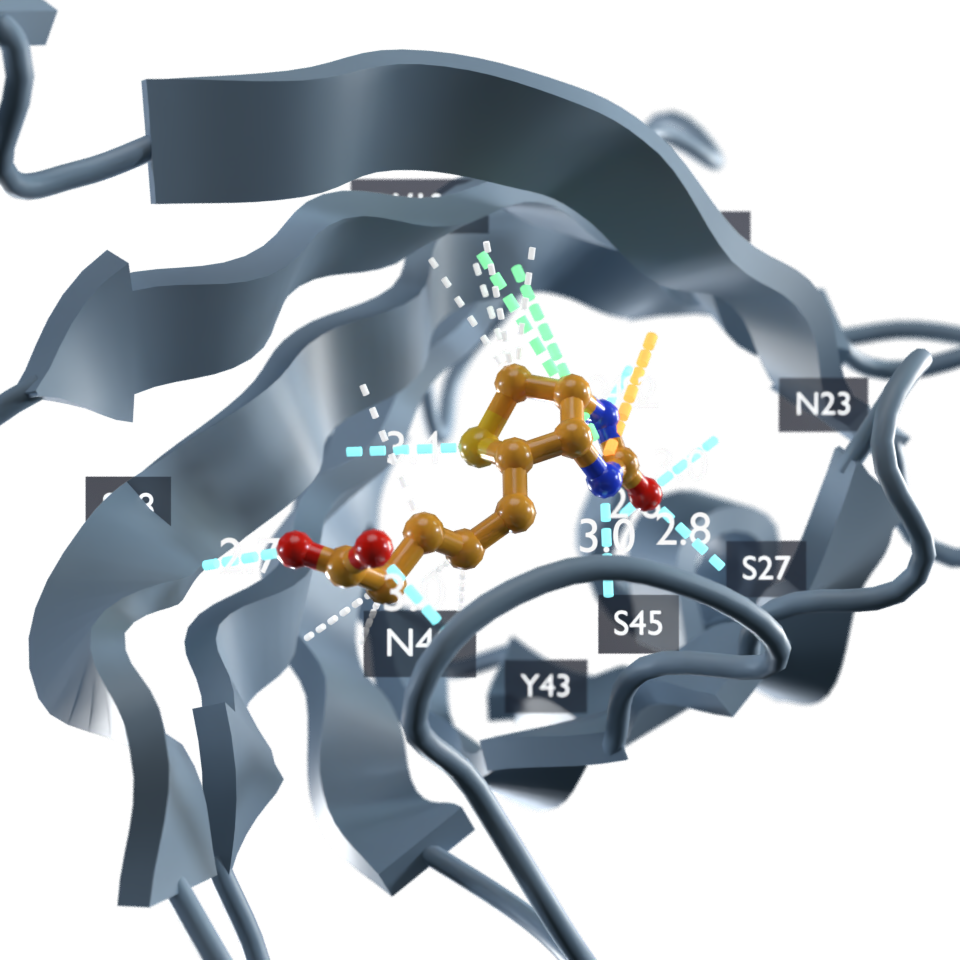
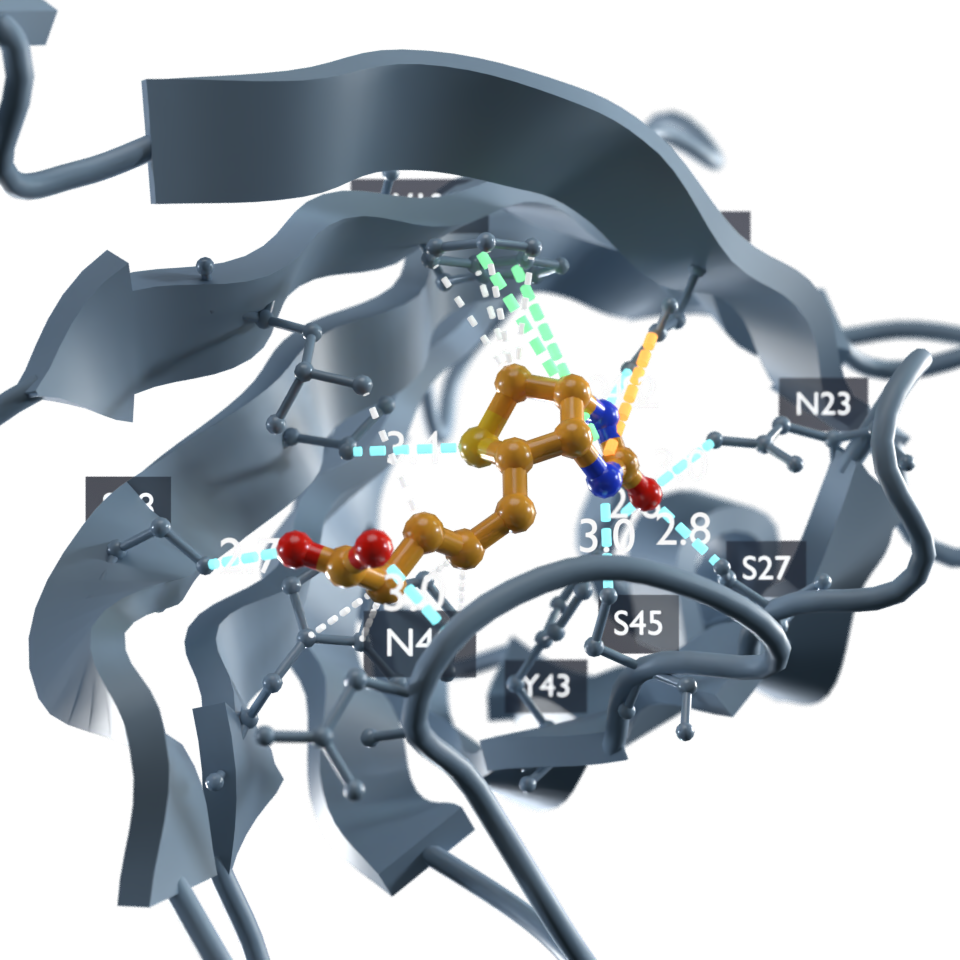
Draw the contacting residues as thin ball-and-stick
The dashes used to stop against a ribbon, with nothing at the far end to have
made the contact. The twelve residues that actually interact with the ligand
are now ball-and-stick, at half its sphere radius (0.15 against 0.3) and under
half its bond radius (0.12 against 0.3), in the protein's slate rather than the
ligand's amber. They read as what the ligand is touching rather than as a
second subject.

Which residues comes from the detected contacts rather than from a distance
shell, so what is drawn is exactly what was measured, expanded to whole
residues.

Two things this needed that are not obvious. `add_style(color=None)`, because
the default inserts a colour node that would paint over the scheme from step 2
— the same node that made every earlier figure ignore Gala's colouring. And a
second `assign_materials`, because a style added after `publication_setup` has
not been through it and would otherwise keep Molecular Nodes' default material.

An earlier attempt at this was reverted for making the figure busier. What
changed is that it is now the contacting residues rather than the whole 4.5 A
pocket, thinner than the ligand rather than the same weight, and slate against
amber rather than pink against pink.

diff --git a/vignettes/02_binding_site.py b/vignettes/02_binding_site.py
@@ -128,6 +128,32 @@ drawn += gala.draw_interactions(
 )
 print(f"  created {len(drawn)} objects in the Gala Interactions collection")
 
+# The residues that actually make those contacts, as ball-and-stick, so the
+# dashes land on atoms rather than stopping against a ribbon. Half the ligand's
+# radii and in the protein's slate, so they read as what the ligand is touching
+# rather than competing with it.
+#
+# `color=None` matters: the default inserts a colour node that would overwrite
+# the scheme set in step 2, and materials are reassigned because a style added
+# after `publication_setup` has not been through it.
+contact_atoms = np.zeros(structure.n_atoms, dtype=bool)
+for contact in contacts:
+    contact_atoms[list(contact.atoms_b)] = True
+
+residue_keys = structure.context.residue_key
+contact_residues = np.unique(residue_keys[contact_atoms])
+contact_atoms = np.isin(residue_keys, contact_residues)
+
+attribute = mol.object.data.attributes.new("contacts", "BOOLEAN", "POINT")
+attribute.data.foreach_set("value", contact_atoms.tolist())
+mol.add_style(
+    mn.StyleBallAndStick(sphere_radius=0.15, bond_radius=0.12),
+    selection="contacts",
+    color=None,
+)
+gala.assign_materials(mol, scheme="chemistry")
+print(f"  {len(contact_residues)} contacting residues drawn as thin sticks")
+
 # Restyle one kind. Distances are in angstrom throughout.
 from blender_gala import InteractionStyle
 

diff --git a/docs/vignettes.md b/docs/vignettes.md
@@ -34,7 +34,9 @@ report it returns.
 `02_binding_site.py` — find every interaction between a ligand and its pocket,
 draw them as dashed lines, quote the polar distances, and label the closest
 residues on translucent cards. A cool neutral protein against warm ligand
-carbons, so the eye goes where the figure is about. The camera looks in along the direction the
+carbons, so the eye goes where the figure is about, and the contacting residues
+as ball-and-stick at half the ligand's radii, so the dashes land on atoms
+without competing with it. The camera looks in along the direction the
 pocket opens, computed from the structure, and frames the site rather than the
 protein. The full Objective 2 workflow.
 
